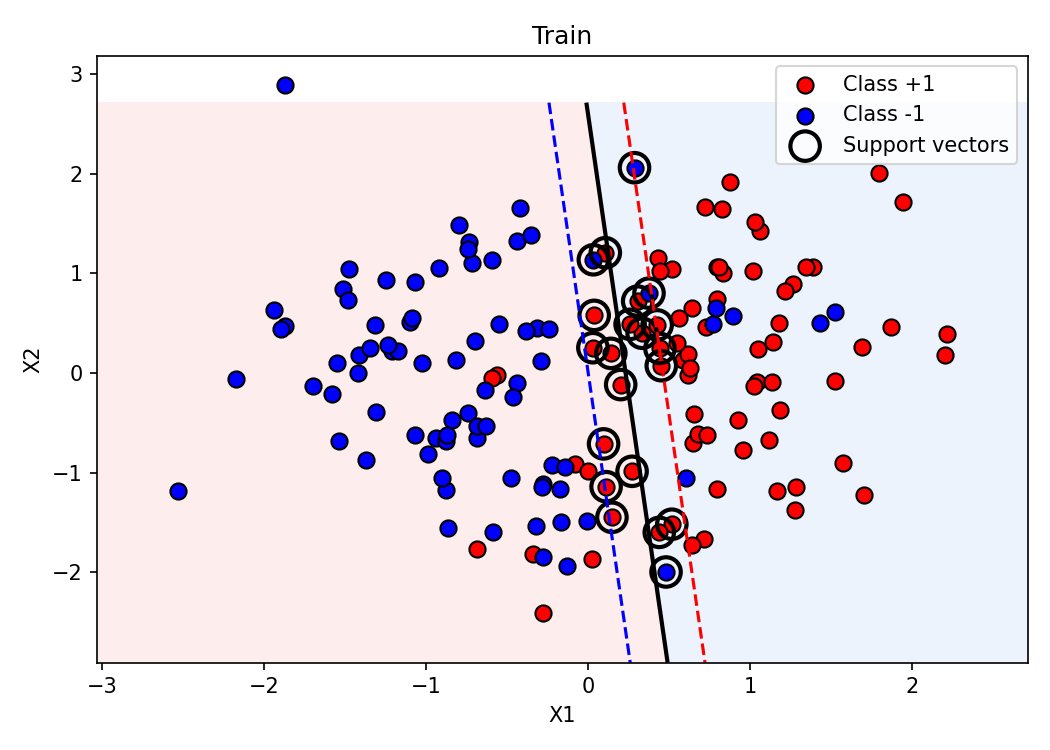
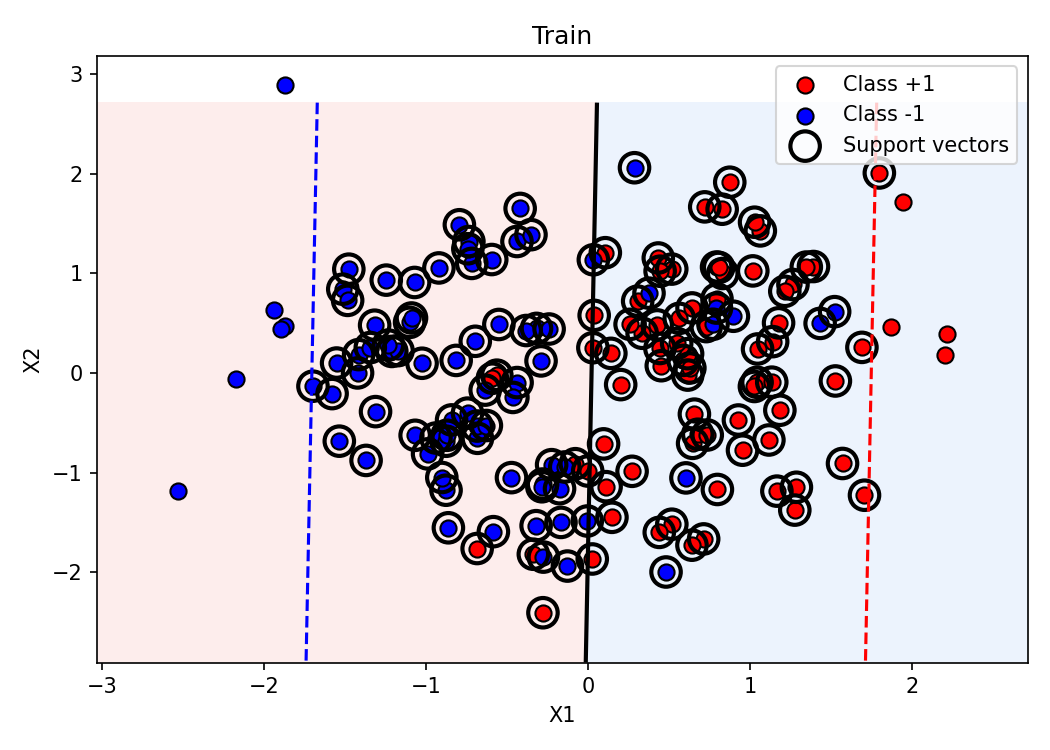
Decision Tree + Random Forest

diff --git a/randomforest.py b/randomforest.py
@@ -1,0 +1,157 @@
+import numpy as np
+from decision_tree import TreeNode
+from decision_tree import DecisionTree
+
+def entropy(y):
+    classes, counts = np.unique(y, return_counts=True)
+    probs = counts / len(y)
+    return -np.sum(probs * np.log2(probs + 1e-12))
+
+def gini(y):
+    classes, counts = np.unique(y, return_counts=True)
+    probs = counts / len(y)
+    return np.sum(probs * (1 - probs))
+
+def impurity_gain(y_parent, y_left, y_right, criterion='entropy'):
+    fn = entropy if criterion == 'entropy' else gini
+    N  = len(y_parent)
+    Nl, Nr = len(y_left), len(y_right)
+    return fn(y_parent) - (Nl/N)*fn(y_left) - (Nr/N)*fn(y_right)
+
+def best_split(X, y, criterion ='entropy'):
+    best_gain, best_feature, best_threshold = -1, None, None
+    N, V = X.shape
+    for feature in range(V):
+        thresholds = np.unique(X[:, feature])
+        for threshold in thresholds:
+            left_mask = X[:, feature] <= threshold
+            right_mask = ~ left_mask
+
+            if left_mask.sum() == 0 or right_mask.sum() == 0:
+                continue
+            gain = impurity_gain(y, y[left_mask], y[right_mask], criterion)
+            if gain > best_gain:
+                best_gain, best_feature, best_threshold = gain, feature, threshold
+    return best_feature, best_threshold, best_gain
+# ====================================================
+
+class RandomForest:
+    def __init__(self, n_trees=100, max_depth=5, min_samples=2, max_features='sqrt', criterion='entropy'):
+        self.n_trees = n_trees
+        self.max_depth = max_depth
+        self.min_samples = min_samples
+        self.max_features = max_features
+        self.criterion = criterion
+        self.trees = [] # storing all the fitted trees
+        self.oob_score = None # out of bag accuracy
+        '''
+        using sqrt(v) is a rule of thumb, but it is importnat to decorrelate the trees, 
+        to preserve the whole point of feature subsampling
+        '''
+    
+    def _sample_features(self, V): # called once per tree
+        if self.max_features == 'sqrt':
+            m = max(1, int(np.sqrt(V)))
+        elif self.max_features == 'log2':
+            m = max(1, int(np.log2(V)))
+        else:
+            m = self.max_features # direct integer pass
+        return np.random.choice(V, size=m, replace=False) 
+    '''
+    picks which features that tree is allowed to use at each split
+    replace=False --> to have unique m distinct features
+    '''
+
+    def fit(self, X, y):
+        N, V = X.shape
+        self.trees = []
+
+        oob_predictions =[[] for _ in range(N)]
+
+        for b in range(self.n_trees):
+            # === step 1. bootstrap sample ===
+            boot_idx = np.random.choice(N, size=N, replace=True) #  it's sampling with replacement, meaning the same row can appear multiple times
+            oob_idx = np.setdiff1d(np.arange(N), boot_idx) # arange(N) -> [0, 1,..., N]
+            # find idx that are not in boot_idx 
+            X_boot, y_boot = X[boot_idx], y[boot_idx]
+
+            # === step 2. building tree with feature subsampling ===
+            feat_idx = self._sample_features(V)
+            tree = DecisionTree(max_depth=self.max_depth, min_samples=self.min_samples,
+                                criterion=self.criterion)
+            # overriding best_split to use subset of features
+            tree.feature_indices = feat_idx
+            original_grow = tree._grow
+        
+            def _grow_with_subset(X, y, depth, feat_idx=feat_idx):
+                # only passing subset of features
+                N_, V_ = X.shape
+                n_classes = len(np.unique(y))
+                if (depth >= tree.max_depth or N_ < tree.min_samples or n_classes == 1):
+                    return TreeNode(prediction=tree._majority_class(y))
+                
+                # using m features
+                feature, threshold, gain = best_split(X[:, feat_idx], y, tree.criterion)
+
+                if feature is None or gain == 0:
+                    return TreeNode(prediction=tree._majority_class(y))
+                
+                # mapping back to original feature index
+                real_feature = feat_idx[feature]
+                left_mask = X[:,real_feature] <= threshold
+
+                left = _grow_with_subset(X[left_mask], y[left_mask], depth+1)
+                right = _grow_with_subset(X[~left_mask], y[~left_mask], depth+1)
+
+                return TreeNode(feature=real_feature, threshold=threshold, left=left, right=right)
+            tree.roo = _grow_with_subset(X_boot, y_boot, depth=0)
+            self.trees.append(tree)
+            
+            # step 3. out of bag predicitions
+            if len(oob_idx) > 0:
+                oob_preds = tree.predict(X[oob_idx])
+                for i, pred in zip(oob_idx, oob_preds):
+                    oob_predictions[i].append(pred)
+            
+            # =====================================
+            # OOB score : majority vote across oob predictions
+            oob_correct = 0
+            oob_total = 0
+            for i in range(N):
+                if len(oob_predictions[i]) > 0:
+                    majority = max(set(oob_predictions[i]), key=oob_predictions[i].count)
+                    if majority == y[i]:
+                        oob_correct += 1
+                    oob_total += 1
+            self.oob_score_ = oob_correct / oob_total if oob_total > 0 else None
+            return self
+        
+    def predict(self, X):
+        all_preds = np.array([tree.predict(X) for tree in self.trees])
+        return np.array([
+            np.bincount(all_preds[:, i].astype(int)).argmax()
+            for i in range(X.shape[0])
+        ])
+    
+
+    def accuracy(self, X, y):
+        return np.mean(self.predict(X) == y)
+
+
+from sklearn.datasets import make_classification
+from sklearn.model_selection import train_test_split
+
+X, y = make_classification(n_samples=500, n_features=10,
+                            random_state=42)
+X_train, X_test, y_train, y_test = train_test_split(X, y,
+                                    test_size=0.2, random_state=42)
+
+# single tree vs random forest
+tree = DecisionTree(max_depth=5)
+tree.fit(X_train, y_train)
+print(f"Single tree test acc: {tree.accuracy(X_test, y_test):.3f}")
+
+rf = RandomForest(n_trees=50, max_depth=5)
+rf.fit(X_train, y_train)
+print(f"Random forest test acc: {rf.accuracy(X_test, y_test):.3f}")
+print(f"OOB score: {rf.oob_score_:.3f}")

diff --git a/svm.py b/svm.py
@@ -106,7 +106,7 @@ scaler = StandardScaler().fit(X_train)
 X_train_s = scaler.transform(X_train)
 X_test_s = scaler.transform(X_test)
 
-model = SVM(lr=0.001, cost=1000, epoch=1000)
+model = SVM(lr=0.001, cost=1, epoch=1000)
 model.fit(X_train_s, y_train)
 
 print(f"Train acc: {model.accuracy(X_train_s, y_train):.3f}")
@@ -115,7 +115,7 @@ print(f"||w|| = {np.linalg.norm(model.w):.3f}  (margin width = {2/np.linalg.norm
 # print(f"Decision function: {model.decision_function(X_train_s)}" )
 
 plot_svm(model, X_train_s, y_train, title='Train')
-plot_svm(model, X_test_s, y_test,title='Test')
+# plot_svm(model, X_test_s, y_test,title='Test')
 
 
 # ========== KERNEL ON NON-LINEAR DATA ==========
